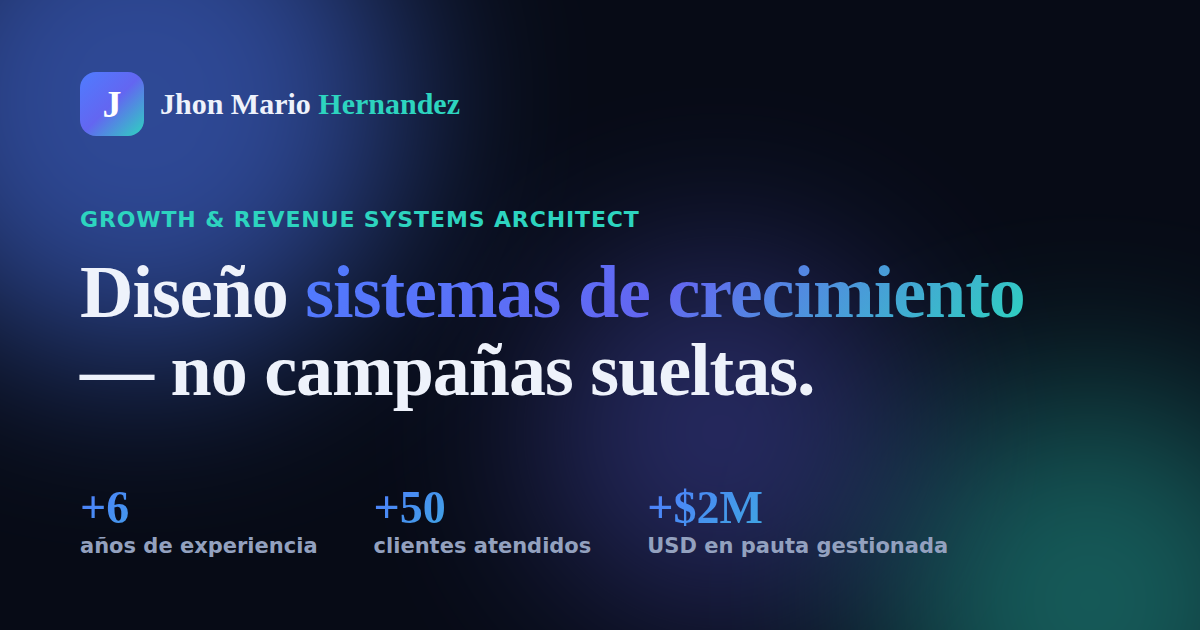
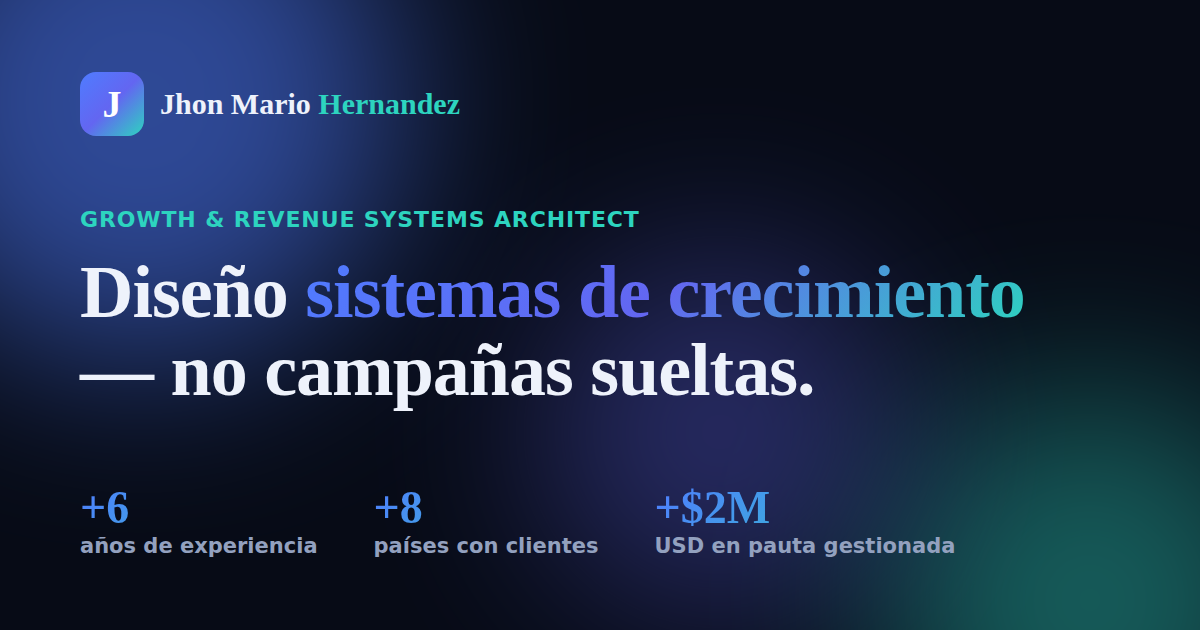
Hero: reemplazar "+50 clientes" por "+8 países" y subir cuentas a +120
El número de clientes leía corto frente al peso del posicionamiento.
Reemplazo por métricas más fuertes y específicas:
- Hero stat #2: "+8 países con clientes activos" (en lugar de "+50 clientes")
- Sobre mí: "+8 países" y "+120 cuentas en paralelo" (antes 100)
- Casos: "+120 cuentas publicitarias en paralelo" (antes +100)
- Meta description / og / twitter: alineados
- Imagen social (og-image.png) regenerada con el nuevo stat

https://claude.ai/code/session_01Swq58Zjo7XFDKj5QB8GJpw

Changed region(s): [[0.5242, 0.7841, 0.8017, 0.9048], [0.3083, 0.7841, 0.4933, 0.9048]]

diff --git a/docs/index.html b/docs/index.html
@@ -4,18 +4,18 @@
   <meta charset="UTF-8" />
   <meta name="viewport" content="width=device-width, initial-scale=1.0" />
   <title>Jhon Mario Hernandez | Growth & Revenue Systems Architect</title>
-  <meta name="description" content="Diseño sistemas de crecimiento predecible para negocios digitales. +6 años, +50 clientes, +$2M USD gestionados en pauta. La estrategia primero — la pauta y el contenido son consecuencia." />
+  <meta name="description" content="Diseño sistemas de crecimiento predecible para negocios digitales. +6 años, clientes en +8 países, +$2M USD gestionados en pauta. La estrategia primero — la pauta y el contenido son consecuencia." />
   <meta name="author" content="Jhon Mario Hernandez" />
   <meta property="og:type" content="website" />
   <meta property="og:title" content="Growth & Revenue Systems Architect — Jhon Mario Hernandez" />
-  <meta property="og:description" content="Sistemas de crecimiento para negocios que ya facturan. +$2M USD gestionados, +50 clientes, +6 años." />
+  <meta property="og:description" content="Sistemas de crecimiento para negocios que ya facturan. +$2M USD gestionados, +6 años, clientes en +8 países y +120 cuentas publicitarias gestionadas." />
   <!-- Para que la miniatura salga en WhatsApp/Facebook, cambia esta ruta por la URL ABSOLUTA cuando tengas tu dominio final, ej: https://tudominio.com/assets/og-image.png -->
   <meta property="og:image" content="assets/og-image.png" />
   <meta property="og:image:width" content="1200" />
   <meta property="og:image:height" content="630" />
   <meta name="twitter:card" content="summary_large_image" />
   <meta name="twitter:title" content="Growth & Revenue Systems Architect — Jhon Mario Hernandez" />
-  <meta name="twitter:description" content="Sistemas de crecimiento para negocios que ya facturan. +$2M USD gestionados, +50 clientes, +6 años." />
+  <meta name="twitter:description" content="Sistemas de crecimiento para negocios que ya facturan. +$2M USD gestionados, +6 años, clientes en +8 países y +120 cuentas publicitarias gestionadas." />
   <meta name="twitter:image" content="assets/og-image.png" />
 
   <link rel="icon" type="image/svg+xml" href="favicon.svg" />
@@ -73,7 +73,7 @@
         <span class="blob blob-3"></span>
       </div>
       <div class="container hero-inner">
-        <p class="eyebrow">Growth &amp; Revenue Systems Architect · +6 años · +$2M USD gestionados</p>
+        <p class="eyebrow">Growth &amp; Revenue Systems Architect · +6 años · +8 países · +$2M USD gestionados</p>
         <h1 class="hero-title">Diseño <span class="gradient-text">sistemas de crecimiento</span> — no campañas sueltas.</h1>
         <p class="hero-subtitle">La estrategia primero. La pauta y el contenido son la consecuencia.</p>
         <p class="hero-lead">Trabajo con negocios que ya facturan y necesitan escalar con sistema, no con suerte. Diseño la arquitectura completa: adquisición, conversión, automatización y revenue total.</p>
@@ -83,7 +83,7 @@
         </div>
         <ul class="hero-stats">
           <li><strong>+6</strong><span>años de experiencia</span></li>
-          <li><strong>+50</strong><span>clientes atendidos</span></li>
+          <li><strong>+8</strong><span>países con clientes activos</span></li>
           <li><strong>+$2M</strong><span>USD en pauta gestionada</span></li>
         </ul>
       </div>
@@ -243,7 +243,7 @@
           </article>
         </div>
 
-        <p class="cases-foot">Además: he gestionado hasta <strong>+100 cuentas publicitarias en paralelo</strong> en Meta, Google, LinkedIn, YouTube y Twitter Ads. Operación a escala, no solo en teoría.</p>
+        <p class="cases-foot">Además: he gestionado hasta <strong>+120 cuentas publicitarias en paralelo</strong> en Meta, Google, LinkedIn, YouTube y Twitter Ads. Operación a escala, no solo en teoría.</p>
 
         <div class="results-shots">
           <h3 class="results-shots-title">Capturas reales de cuentas</h3>
@@ -380,9 +380,9 @@
         <div class="about-body">
           <p class="eyebrow">Sobre mí</p>
           <h2 class="section-title">Estrategia primero. <span class="gradient-text">Siempre.</span></h2>
-          <p>Soy <strong>Jhon Mario Hernandez</strong>, Growth &amp; Revenue Systems Architect. Llevo más de seis años diseñando sistemas de crecimiento para negocios digitales en LatAm, USA y Europa. He atendido más de 50 clientes y gestionado más de dos millones de dólares en pauta publicitaria.</p>
+          <p>Soy <strong>Jhon Mario Hernandez</strong>, Growth &amp; Revenue Systems Architect. Llevo más de seis años diseñando sistemas de crecimiento para negocios digitales, con clientes activos en <strong>más de 8 países</strong> de LatAm, USA y Europa. He gestionado más de dos millones de dólares en pauta publicitaria.</p>
           <p>Mi formación es autodidacta — no por moda, sino porque este oficio se aprende moviendo cuentas reales, no en un aula. Trabajo desde Colombia, de forma remota, con clientes en cualquier mercado hispanohablante.</p>
-          <p>He gestionado hasta <strong>100 cuentas publicitarias en paralelo</strong> en Meta, Google, LinkedIn, YouTube y Twitter Ads, en proyectos que combinan adquisición, conversión, automatización y escalado.</p>
+          <p>He gestionado hasta <strong>+120 cuentas publicitarias en paralelo</strong> en Meta, Google, LinkedIn, YouTube y Twitter Ads, en proyectos que combinan adquisición, conversión, automatización y escalado.</p>
 
           <h3 class="about-subhead">Por qué soy selectivo</h3>
           <p>Algo que aprendí en estos años: he visto demasiadas veces a clientes míos crecer al punto de romper su propia estructura. Pasan de facturar bien a facturar muy bien — y luego quiebran, no por falta de ventas, sino por falta de orden financiero para sostener ese crecimiento.</p>
